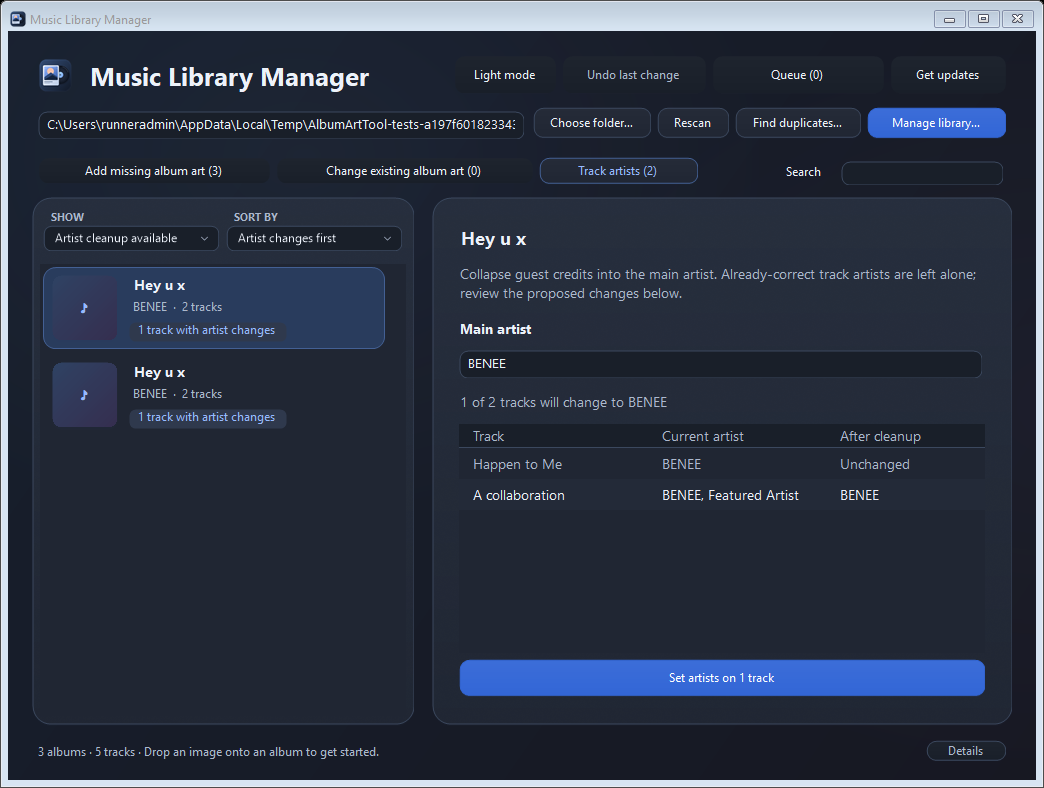
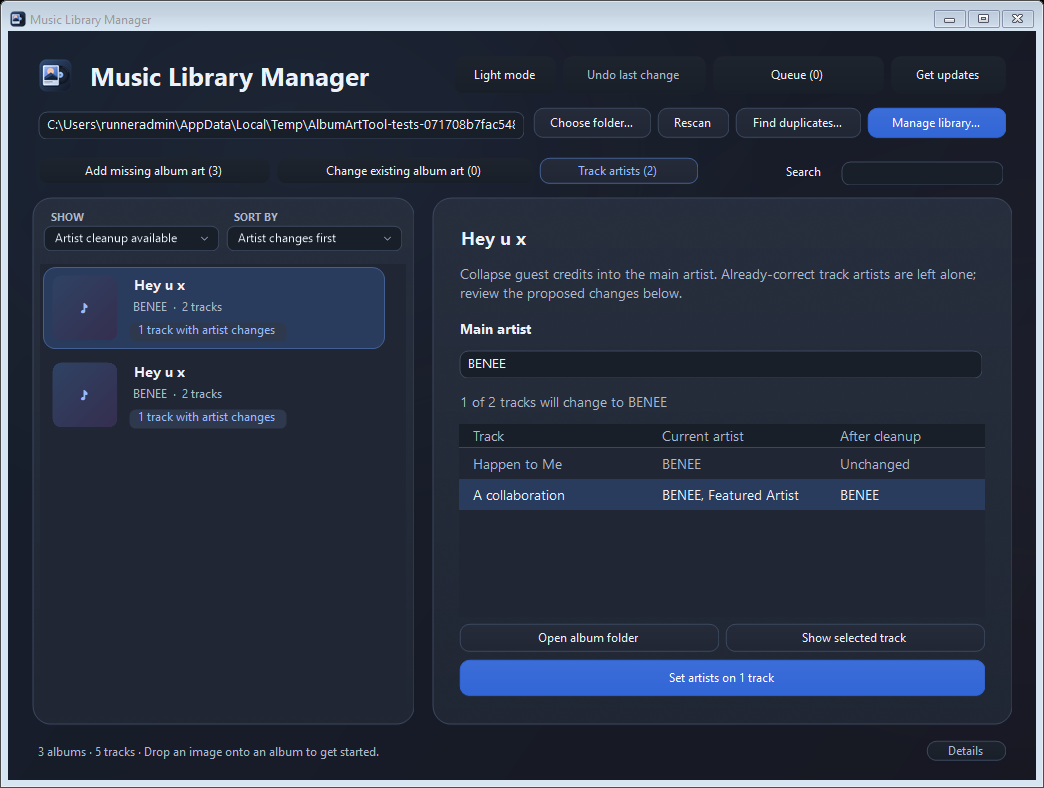
[release] Publish v2.4.0 with rounded scrollbars and folder navigation

diff --git a/src/AlbumArtTool/Design/ThemeScrollbars.cs b/src/AlbumArtTool/Design/ThemeScrollbars.cs
@@ -76,7 +76,9 @@ namespace AlbumArtTool.Design
             if (!GetScrollBarInfo(Handle, vertical ? -5 : -6, ref info) || (info.States[0] & 0x18000) != 0) return Rectangle.Empty;
             var bounds = Rectangle.FromLTRB(info.Bounds.Left - window.Left, info.Bounds.Top - window.Top, info.Bounds.Right - window.Left, info.Bounds.Bottom - window.Top);
             if (bounds.Width < 1 || bounds.Height < 1) return Rectangle.Empty;
-            using (var background = new SolidBrush(Surface)) graphics.FillRectangle(background, bounds);
+            // Include the one-pixel system edge so the channel does not retain a box.
+            var channel = Rectangle.Intersect(Rectangle.Inflate(bounds, 1, 1), new Rectangle(0, 0, window.Right - window.Left, window.Bottom - window.Top));
+            using (var background = new SolidBrush(Surface)) graphics.FillRectangle(background, channel);
             var pointer = Cursor.Position; pointer.Offset(-window.Left, -window.Top);
             bool active = owner.Enabled && (bounds.Contains(pointer) || (info.States[3] & 8) != 0);
             int thickness = Math.Min(vertical ? bounds.Width - 4 : bounds.Height - 4, AppTheme.Scale(owner, active ? 8 : 6));
